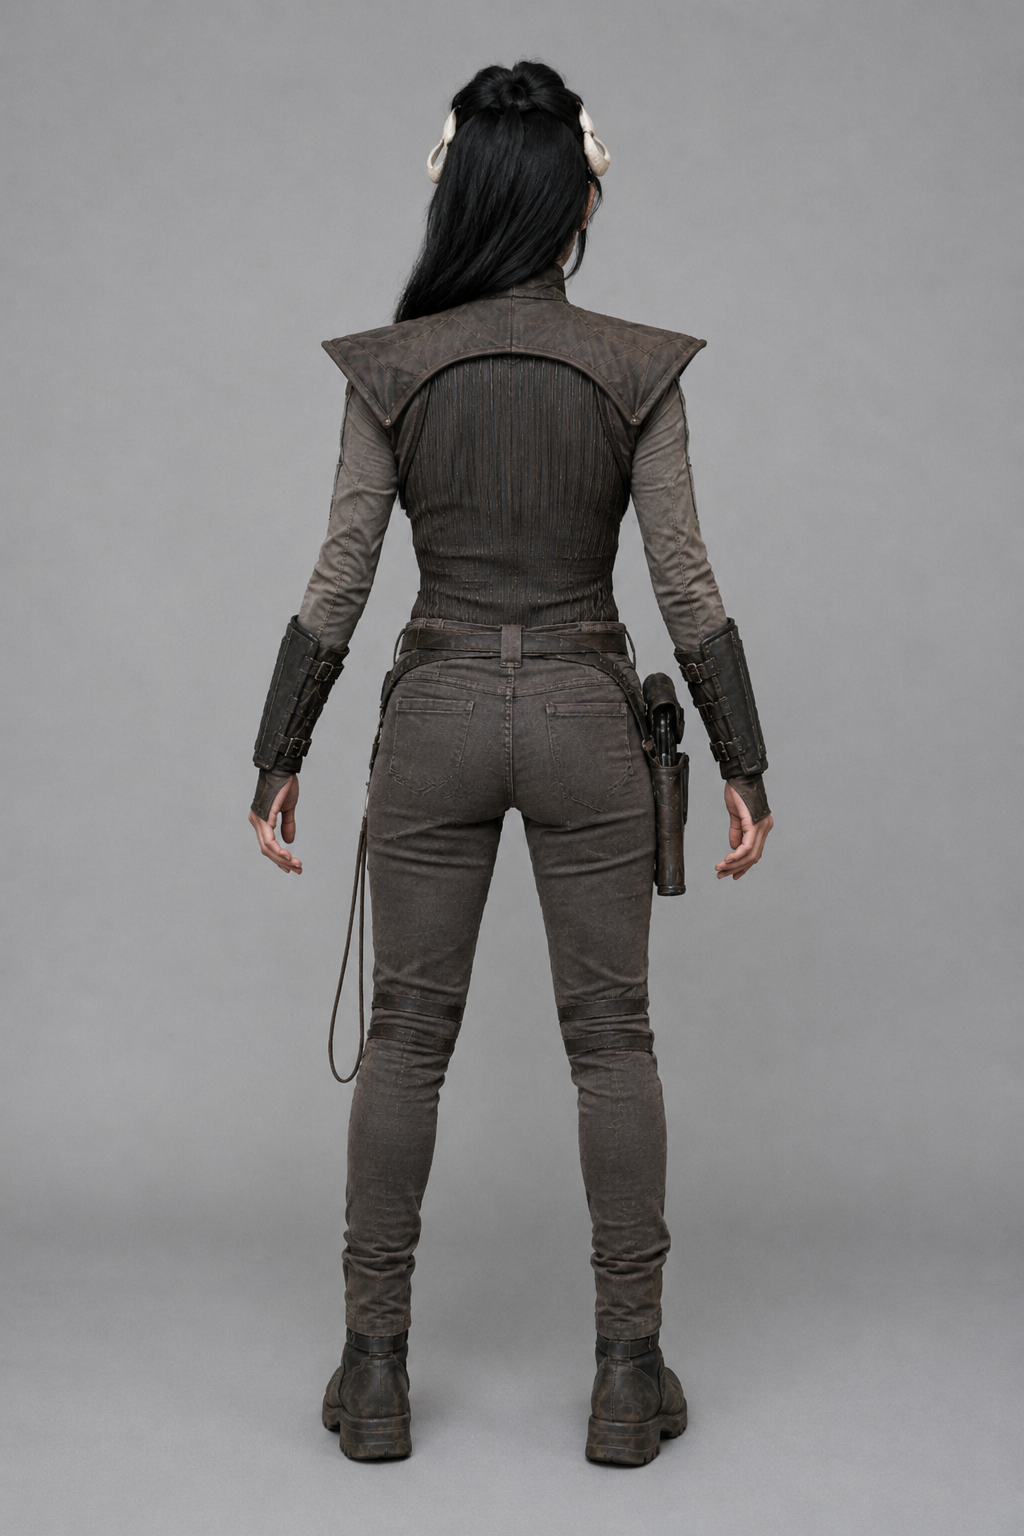
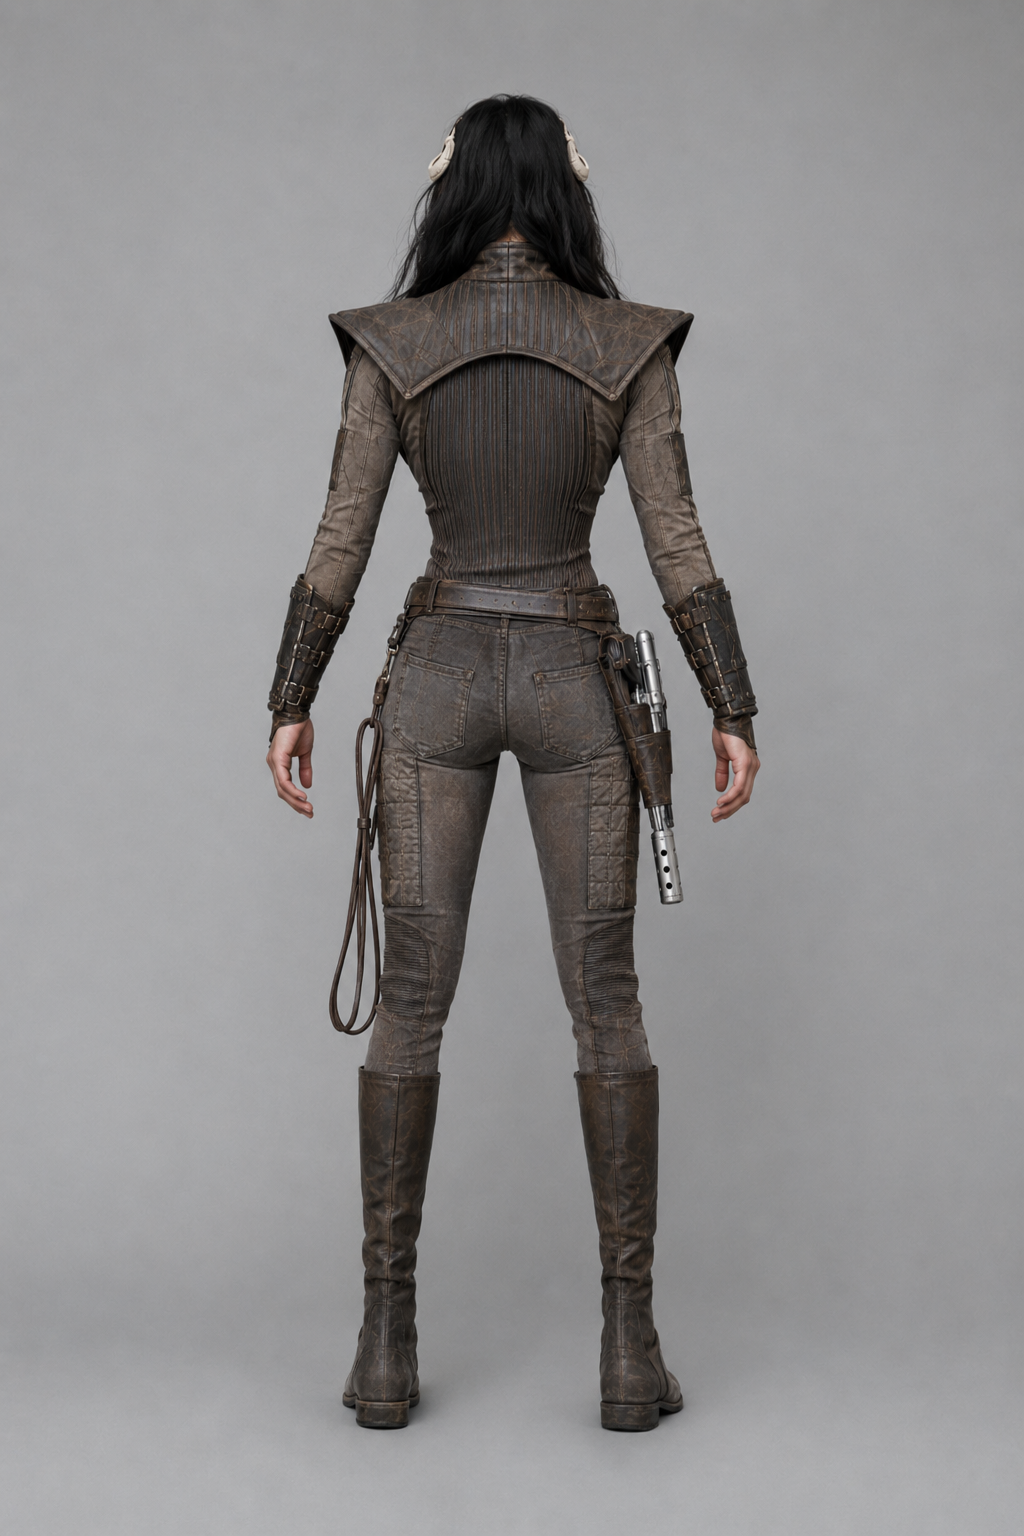
art(captain-jasu): turnarounds v2 complete — 5/5, handedness verified at the hip
Left, right, back and natural regenerated against the v2 front. All four
pass. The v1 set is superseded in full: ankle boots, a belt whistle, and hair
matching a rule that was itself wrong.

Handedness was verified rather than eyeballed -- both profiles cropped and
magnified at the hip. Right profile: holster flat against the near thigh at
full width, no leash visible. Left profile: holster edge-on, protruding past
the front of the hip only, leash on the near side with hook and coil. That is
how a far-side holster reads from the opposite profile.

So the visibility rule added earlier today works. It was written against an
A/B where nothing that belonged on the hidden side survived being hidden --
the most emphatically described object got dragged round into shot. Nothing
moved this time.

Also correct in all four: tall boots with a low heel, one whistle at the
throat, hair down, asymmetric pale horns, forearm-only bracers, and the
blaster barrel's six vent holes legible in the back view.

Two watch items, neither a defect: the heel sits slightly higher in natural,
and the mantle reads smoother in the profiles than front and back. The second
is predicted -- 'Ribbed, quilted or pleated.' is one of the five tail
sentences the profile views drop, item 11 in Prompt-Reliability-TODO.

Also fixed: both of her board governing-document paths were broken, written
as a bare title and a repo-root path where the validator resolves relative to
[…]

Changed region(s): [[0.25, 0.0312, 0.75, 0.9688], [0.0, 0.7812, 0.0938, 0.8125], [0.125, 0.7812, 0.1875, 0.8125]]

diff --git a/11-production-tracking/Jasu-Image-TODO.md b/11-production-tracking/Jasu-Image-TODO.md
@@ -22,33 +22,41 @@ status: "open"
 > **`./tools/regen captain-jasu` has been run, so every prompt and the staged
 > attachment folder already point at the new front.** Verified by checksum.
 >
-> ### RUN THIS NEXT — the four remaining views
+> ### TURNAROUNDS COMPLETE — 5/5, v2, checked 2026-08-03
 >
-> They are the primary deliverable and they are ready now. **Fresh chat each.**
+> Left, right, back and natural all regenerated against the v2 front and all
+> four pass. **The v1 set is gone** — it had ankle boots, a belt whistle and the
+> superseded hair.
 >
-> | Order | Paste | Attach |
+> **Handedness verified, not eyeballed.** Both profiles were cropped and
+> magnified at the hip:
+>
+> | | Blaster | Leash |
 > |---|---|---|
-> | 1 | `prompts/turnarounds-short/turn-field-left.txt` | everything in `prompts/attach/field/` — **all 3** |
-> | 2 | `prompts/turnarounds-short/turn-field-right.txt` | the same 3 |
-> | 3 | `prompts/turnarounds-short/turn-field-back.txt` | the same 3 |
-> | 4 | `prompts/turnarounds-short/turn-field-natural.txt` | the same 3 |
+> | **right profile** | Flat against the near thigh, full width, grip up and angled forward | Not visible — correctly hidden on her far side |
+> | **left profile** | Edge-on, protruding past the front of the hip only | On the near side, hook and coil fully visible |
 >
-> Save each as `source/artwork/<Output file>` exactly as the prompt names it.
-> Unlike the front, these views **do** take the costume photograph — a plate is
-> only excluded from being its own reference.
+> That is exactly how a far-side holster reads from the opposite profile, and it
+> means **the visibility rule added on 2026-08-03 did its job.** The documented
+> failure it was written against was the opposite — an A/B where *nothing that
+> belonged on the hidden side survived being hidden*, and the most emphatically
+> described object got dragged round into shot. It stayed put this time.
 >
-> **Check each against the front:** boots tall, one whistle at the throat, hair
-> down, horns unchanged, and every asymmetric piece on the correct side — blaster
-> on her RIGHT, leash on her LEFT. **The profile views are where side errors
-> appear**, and the prompts now carry a visibility rule telling the model which
-> side the camera cannot see and forbidding it from moving a hidden piece round
-> into shot.
+> Also correct across all four: tall boots with a low heel, exactly one whistle
+> at the throat, hair down and loose, horns asymmetric and pale, bracers forearm
+> only, and the six vent holes on the blaster barrel legible in the back view.
 >
-> > **Known and accepted:** on the left and right prompts the budget settles
-> > lower, and five tail sentences are dropped — articulation, the yoke rising
-> > into the collar, the leather-minority list, the grip angle. All construction
-> > detail; none of it silhouette or placement. Recorded as item 11 in
-> > [`Prompt-Reliability-TODO.md`](Prompt-Reliability-TODO.md).
+> **Two things to watch rather than fix:**
+>
+> - **The heel is slightly higher in `natural` than in the other four.** Within
+>   tolerance, but it is the detail the generator has already got wrong once, so
+>   check it in every future frame.
+> - **The mantle reads smoother in the two profiles** than in front and back,
+>   where its quilting is clear. This is *predicted*: `Ribbed, quilted or
+>   pleated.` is one of the five tail sentences the profile views drop, because
+>   their longer shot text settles the budget lower. Item 11 in
+>   [`Prompt-Reliability-TODO.md`](Prompt-Reliability-TODO.md). If a future
+>   profile loses the mantle's construction entirely, that is the cause.
 >
 > ### THEN the sixteen slots, in this order
 >

diff --git a/11-production-tracking/Production-Status.md b/11-production-tracking/Production-Status.md
@@ -33,7 +33,7 @@ Mood and narrative images are context. Three or four per character is enough.
 | Shada | 1 | 5 | **COMPLETE 2026-08-03. 21 of 21 images current, six boards and the promo sheet built.** The design locked 2026-08-02 — vest from hide to **cloth**, palette to **grey / grey-green / khaki**, plate density, tessellation, cap size and wear all fixed. TWO approved references with non-overlapping scopes: `turn-working-front` for the costume, `scale_portrait` for the make-up. **She is the worked example** — every rule in her pack has a documented failure behind it. Run list and reasoning in [`Shada-Image-TODO.md`](Shada-Image-TODO.md). Open, cosmetic only: `species_strip` carries a zip and a shingled cap, and can be re-rolled against the fixed prompt whenever convenient |
 | Mercenary Kit | 4 people (Merc 1–4) | 20 | **Ids renamed to the people, 2026-08-01** — files are `turn-merc-1-front` etc, and there is now a board config with one turnaround sheet each. 3/4 fronts were generated but **are not in the repository**. **Merc 1, the Wookiee, has no generated turnaround by decision** — fill his sheet from concept art or build photos |
 | Baylan | **1**, in two states | **10** | not started. Collapsed from four outfits to one on 2026-08-01 — the robe is a removable layer and the separate Jedi build is dropped. **The coat gained its own five-view set on 2026-08-01** (`working-coat`): the base five are the build record, the coat five are the silhouette the audience sees. **Chevron geometry fixed against reference the same day** — a centre-front plastron, five broad bands, throat to belt, narrower than his shoulders. `handedness: right`, checker clean. Lock his prop plates before his figures |
-| Captain Jasu | 1 | 5 | **5/5 COMPLETE 2026-08-01.** Front approved and locked in `outfits.yaml`; left, right, back and natural all generated against it and all passing the mirror check. The first character in the production with a full turnaround set built off an approved reference. Six reference plates attached: approved front, concept sketch, two figure shots for the headdress, the A180, the actor. **Her other 14 images are blocked** — `Prompts.md` is still a scaffold with 16 `NEEDS:` markers, and she has no `Character-Lock.md`, no `board-data.yaml` and no boards. See [`Jasu-Image-TODO.md`](Jasu-Image-TODO.md) |
+| Captain Jasu | 1 | 5 | **5/5 COMPLETE — REBUILT AS v2, 2026-08-03.** Front re-approved and all four views regenerated against it. **The v1 set was wrong and had been since 2026-08-01**: ankle boots, a whistle at the belt, and hair that matched a rule which was itself mistaken — none of it visible until her `must_show` was rewritten and the rules started reaching the generator. Four evolution passes settled it. **Handedness verified by zooming both profiles**: blaster flat against the near thigh on her right, edge-on past the hip on her left, leash mirroring it. The visibility rule added 2026-08-03 held. **16 slot images remain**, all prompts ready. See [`Jasu-Image-TODO.md`](Jasu-Image-TODO.md) |
 | Shin | 3 states | 15 | not started — **blocked the same way Baylan was**: no `handedness:`, no `must_show:` on any state |
 
 See `09-prompt-library/Turnaround-Block.md`.

diff --git a/CHANGELOG.md b/CHANGELOG.md
@@ -25,6 +25,48 @@ All notable production-bible changes are recorded here.
 
 ### Added
 
+- **Captain Jasu's turnaround set is complete and correct — v2, 2026-08-03.**
+  Front re-approved and all four remaining views regenerated against it. The v1
+  set, generated 2026-08-01, is superseded in full: it carried ankle boots, a
+  whistle at the belt and hair matching a rule that was itself wrong, and none of
+  that was visible until her `must_show` was rewritten and the rules began
+  reaching the generator.
+
+  **Handedness was verified rather than eyeballed** — both profiles cropped and
+  magnified at the hip. In the right profile the holster lies flat against the
+  near thigh at full width with no leash visible; in the left it appears edge-on,
+  protruding past the front of the hip only, with the leash on the near side.
+  That is exactly how a far-side holster reads from the opposite profile.
+
+  **So the visibility rule added on 2026-08-03 works.** It was written against an
+  A/B in which *nothing that belonged on the hidden side survived being hidden* —
+  the most emphatically described object in the costume was dragged round into
+  shot. This time everything stayed where it belongs.
+
+  Also correct in all four: tall boots with a low heel, exactly one whistle at
+  the throat, hair down and loose, asymmetric pale horns, forearm-only bracers,
+  and the blaster barrel's six vent holes legible in the back view.
+
+  **Two watch items, neither a defect.** The heel sits slightly higher in
+  `natural` than the rest — the one detail already got wrong once. And the mantle
+  reads smoother in the two profiles than in front and back, which is *predicted*:
+  `Ribbed, quilted or pleated.` is one of the five tail sentences the profile
+  views drop, because their longer shot text settles the budget lower. Item 11 in
+  `Prompt-Reliability-TODO.md`.
+
+### Fixed
+
+- **Captain Jasu's board governing-document paths were both broken, 2026-08-03.**
+  `--validate` reported *"missing governing document"* for the Production Design
+  Bible and the akk dog creature document — the only two failures in her entire
+  board set that were not simply an image not generated yet. They were written as
+  a bare title (`Production Design Bible v1.0`) and a repo-root path
+  (`08-species/akk-dog/Creature.md`), where the validator resolves relative to the
+  character folder. Rewritten in Shada's style, and the faction document added
+  while there. **Validation now reports only genuinely missing images.**
+
+### Added
+
 - **A standing rule on cast data, 2026-08-03 — it stays in Google Drive and
   never enters this repository.** `11-production-tracking/Cast-Data-Source.md`.
 
@@ -92,6 +134,7 @@ All notable production-bible changes are recorded here.
   reference for the four matched views and all sixteen narrative slots, so every
   image made from it inherits ankle boots and a belt whistle. It must be cleared,
   re-rolled and re-approved before anything else generates.
+  *(Done the same day — see the v2 turnaround entry at the top of Unreleased.)*
 
 ### Fixed
 

diff --git a/REPO-STATE.md b/REPO-STATE.md
@@ -1,12 +1,12 @@
 # Repository state
 
-**Stamped 2026-08-03 21:59 UTC** — automatically, by `tools/hooks/pre-commit`, at the moment of
+**Stamped 2026-08-03 22:21 UTC** — automatically, by `tools/hooks/pre-commit`, at the moment of
 the commit that contains this file.
 
 | | |
 |---|---|
 | Branch | `main` |
-| Commit before this one | `33acd1c` |
+| Commit before this one | `bd95f6c` |
 | Screenplay | `the-price-of-freedom-v10.fountain` |
 | Character folders | 12 |
 | Generated prompt files | 267 |
